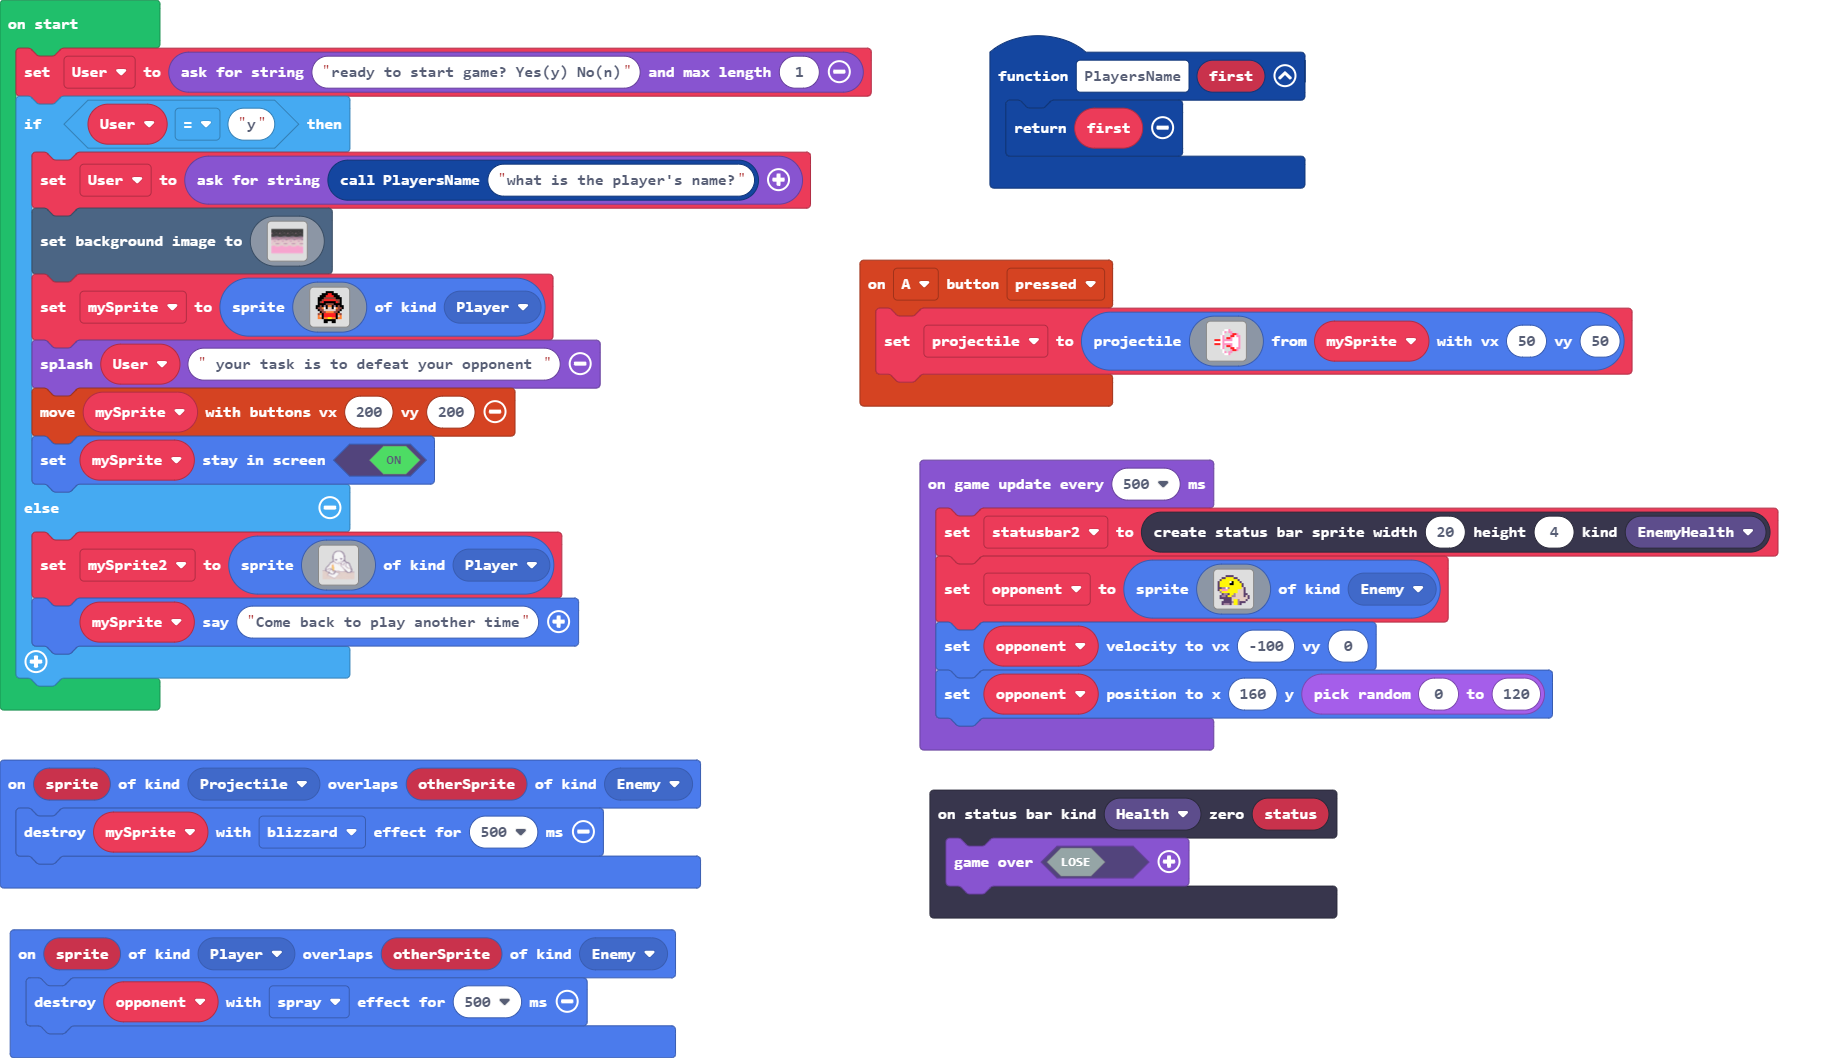
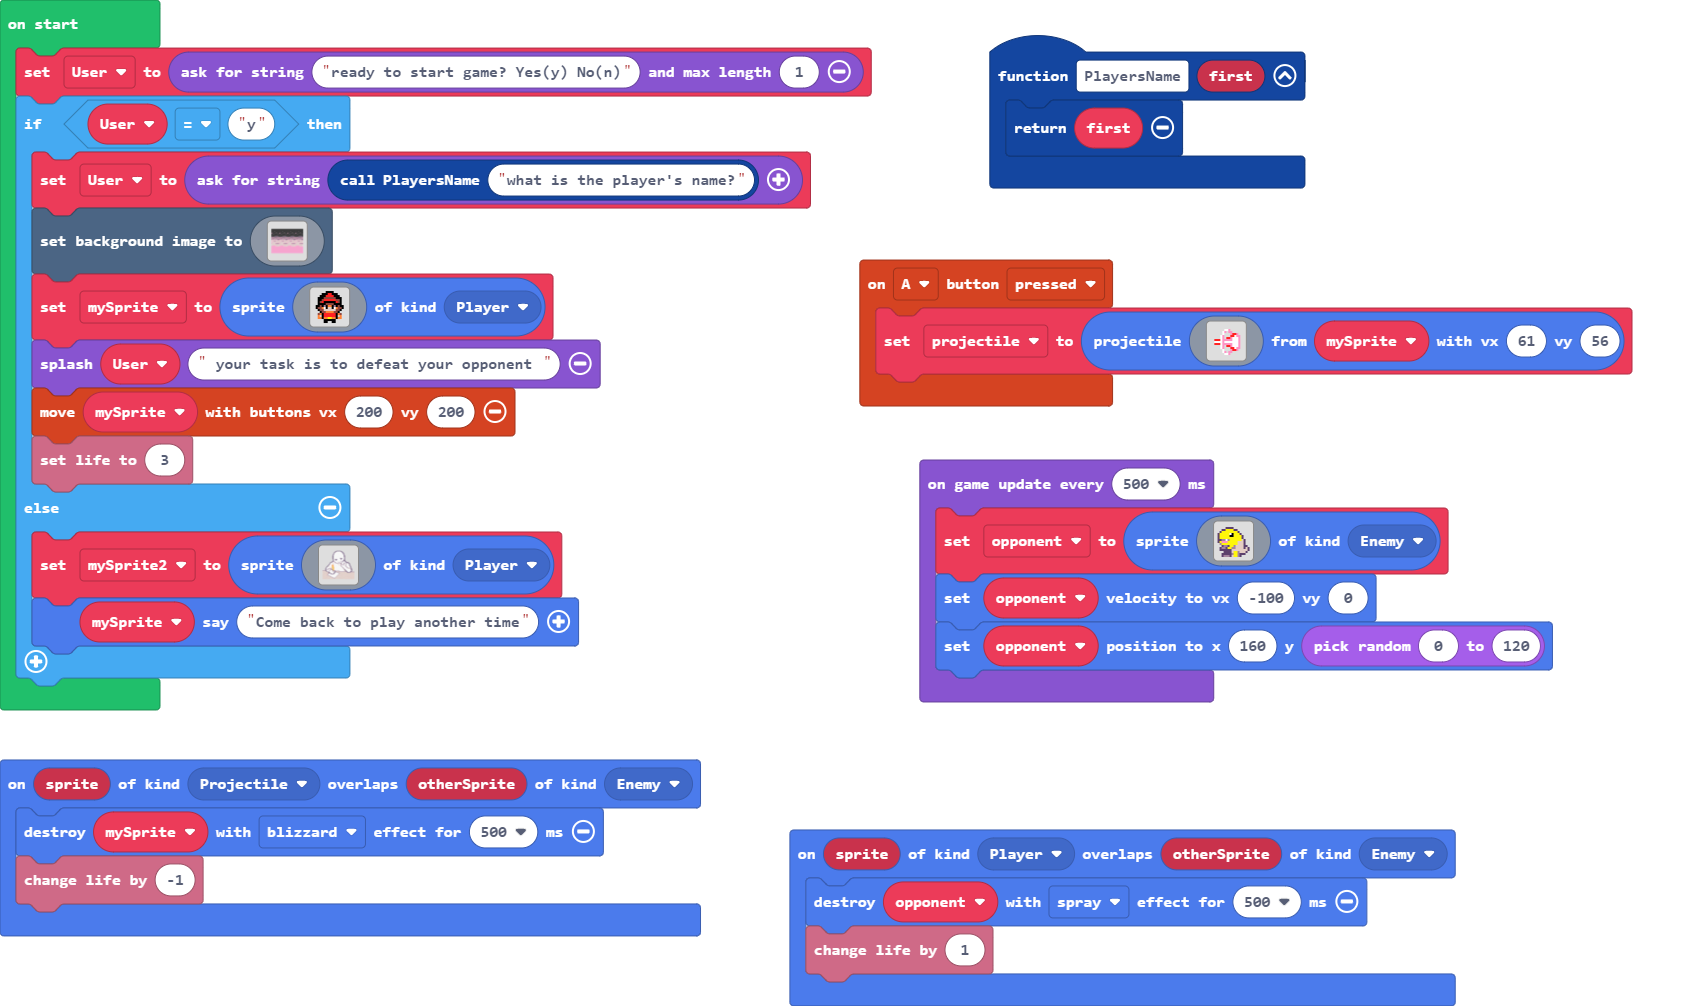
Update main.blocks, main.ts

diff --git a/main.ts b/main.ts
@@ -19,18 +19,16 @@ controller.A.onEvent(ControllerButtonEvent.Pressed, function () {
         . . . . . . 1 3 . 3 3 . . . . . 
         . . . . . . . 1 1 3 . . . . . . 
         . . . . . . . . . . . . . . . . 
-        `, mySprite, 50, 50)
-})
-statusbars.onZero(StatusBarKind.Health, function (status) {
-    game.over(false)
+        `, mySprite, 61, 56)
 })
 sprites.onOverlap(SpriteKind.Projectile, SpriteKind.Enemy, function (sprite, otherSprite) {
     mySprite.destroy(effects.blizzard, 500)
+    info.changeLifeBy(-1)
 })
 sprites.onOverlap(SpriteKind.Player, SpriteKind.Enemy, function (sprite, otherSprite) {
     opponent.destroy(effects.spray, 500)
+    info.changeLifeBy(1)
 })
-let statusbar2: StatusBarSprite = null
 let opponent: Sprite = null
 let projectile: Sprite = null
 let mySprite2: Sprite = null
@@ -180,7 +178,7 @@ if (User == "y") {
         `, SpriteKind.Player)
     game.splash(User, " your task is to defeat your opponent ")
     controller.moveSprite(mySprite, 200, 200)
-    mySprite.setStayInScreen(true)
+    info.setLife(3)
 } else {
     mySprite2 = sprites.create(img`
         ...........................cccccccccc..........................
@@ -242,7 +240,6 @@ if (User == "y") {
     mySprite.sayText("Come back to play another time")
 }
 game.onUpdateInterval(500, function () {
-    statusbar2 = statusbars.create(20, 4, StatusBarKind.EnemyHealth)
     opponent = sprites.create(img`
         . . . . . . . . . . . . . . . . 
         . . . . c c c c . . . . . . . . 
